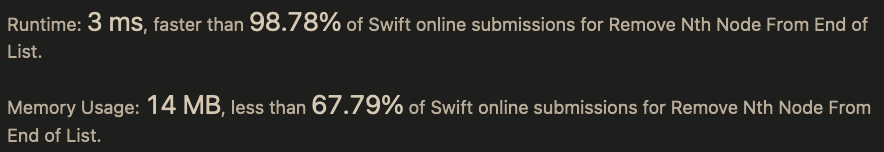
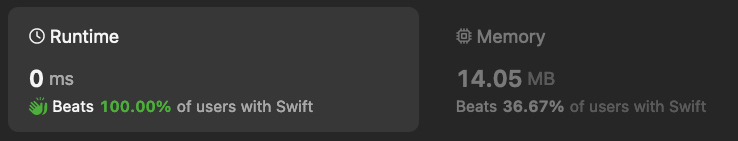
Solved 19 again

diff --git a/LeetCode.playground/Pages/19. Remove Nth Node From End of List.xcplaygroundpage/Contents.swift b/LeetCode.playground/Pages/19. Remove Nth Node From End of List.xcplaygroundpage/Contents.swift
@@ -14,24 +14,22 @@ public class ListNode {
  */
 class Solution {
     func removeNthFromEnd(_ head: ListNode?, _ n: Int) -> ListNode? {
-        var dummy = ListNode(0, head)
-        
-        var slow: ListNode? = nil
-        var fast = head
-        var i = 0
-        
+        let dummy = ListNode()
+        dummy.next = head
+
+        var fast = head, slow: ListNode? = dummy
+        var k = 0
+
         while fast != nil {
-            if i == n - 1 {
-                slow = dummy
-            } else if i > n - 1 {
+            fast = fast?.next
+            if k >= n {
                 slow = slow?.next
             }
-            fast = fast?.next
-            i += 1
+            k += 1
         }
-        
+
         slow?.next = slow?.next?.next
-        
+
         return dummy.next
     }
 }
